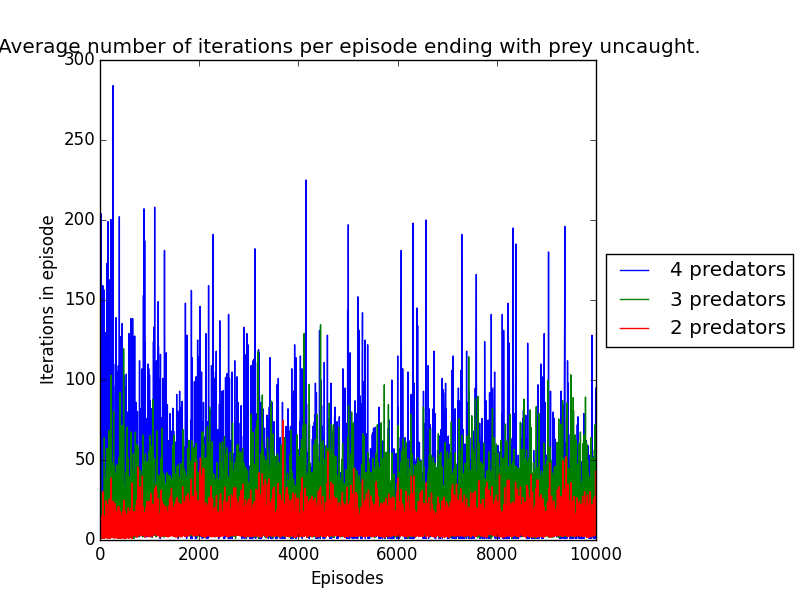
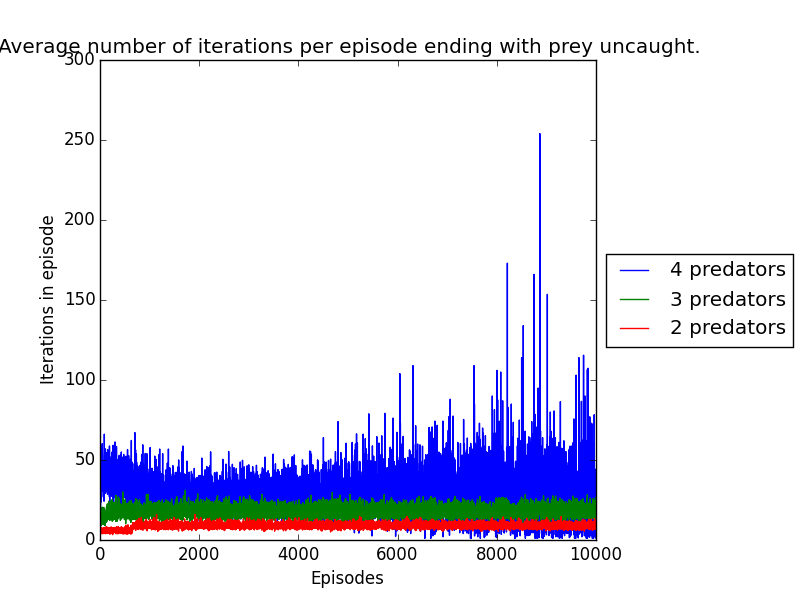
plots for 3.2.1

Changed region(s): [[0.125, 0.36, 0.75, 0.9]]

diff --git a/Assignment 3/minimax.py b/Assignment 3/minimax.py
@@ -12,16 +12,19 @@ def minimax(episodes,initial_state,epsilon, decay, gamma, alpha=1.0):
     pi_pred = dict()
     pi_prey = dict()
     initValue = 1.0
-    # for state in states:
-    #   V_pred[state] = 1.0
-    #   V_prey[state] = 1.0
-    #   for action in predator_moves:
-    #       pi_pred[(state,action)]=1.0/num_actions
-    #       for opponent_move in opponent_moves:
-    #           Q_pred[(state,action, prey_move)]=1.0
-    #           Q_prey[(state,opponent_move,action)]=1.0
-    #   for action in prey_move:
-    #       pi_pred[(state,action)]=1.0/num_actions
+    # initialisation
+    world = World((5,5),initialState)
+    for state in world.allStates():
+      V_pred[state] = 1.0
+      V_prey[state] = 1.0
+      for action in world.allMoveList():
+          pi_pred[(state,action)]=1.0/num_actions
+          for opponent_move in opponent_moves:
+              Q_pred[(state,action, prey_move)]=1.0
+              Q_prey[(state,opponent_move,action)]=1.0
+      for action in world.singleMoveList():
+          pi_pred[(state,action)]=1.0/num_actions
+
     steps = [0]*episodes
     rewards = [0]*episodes
     for i in range(episodes):

diff --git a/Assignment 3/Assignment3.2.1.py b/Assignment 3/Assignment3.2.1.py
@@ -9,7 +9,7 @@ pl.ylabel('Prey caught ratio')
 pl.xlabel('Episodes')
 predatorLocations = [(0,0),(10,0),(0,10),(10,10)]
 episodes = 10000
-runs = 500
+runs = 200
 labels = []
 avesteps = np.zeros((4,episodes))
 avestepscatch = np.zeros((4,episodes))
